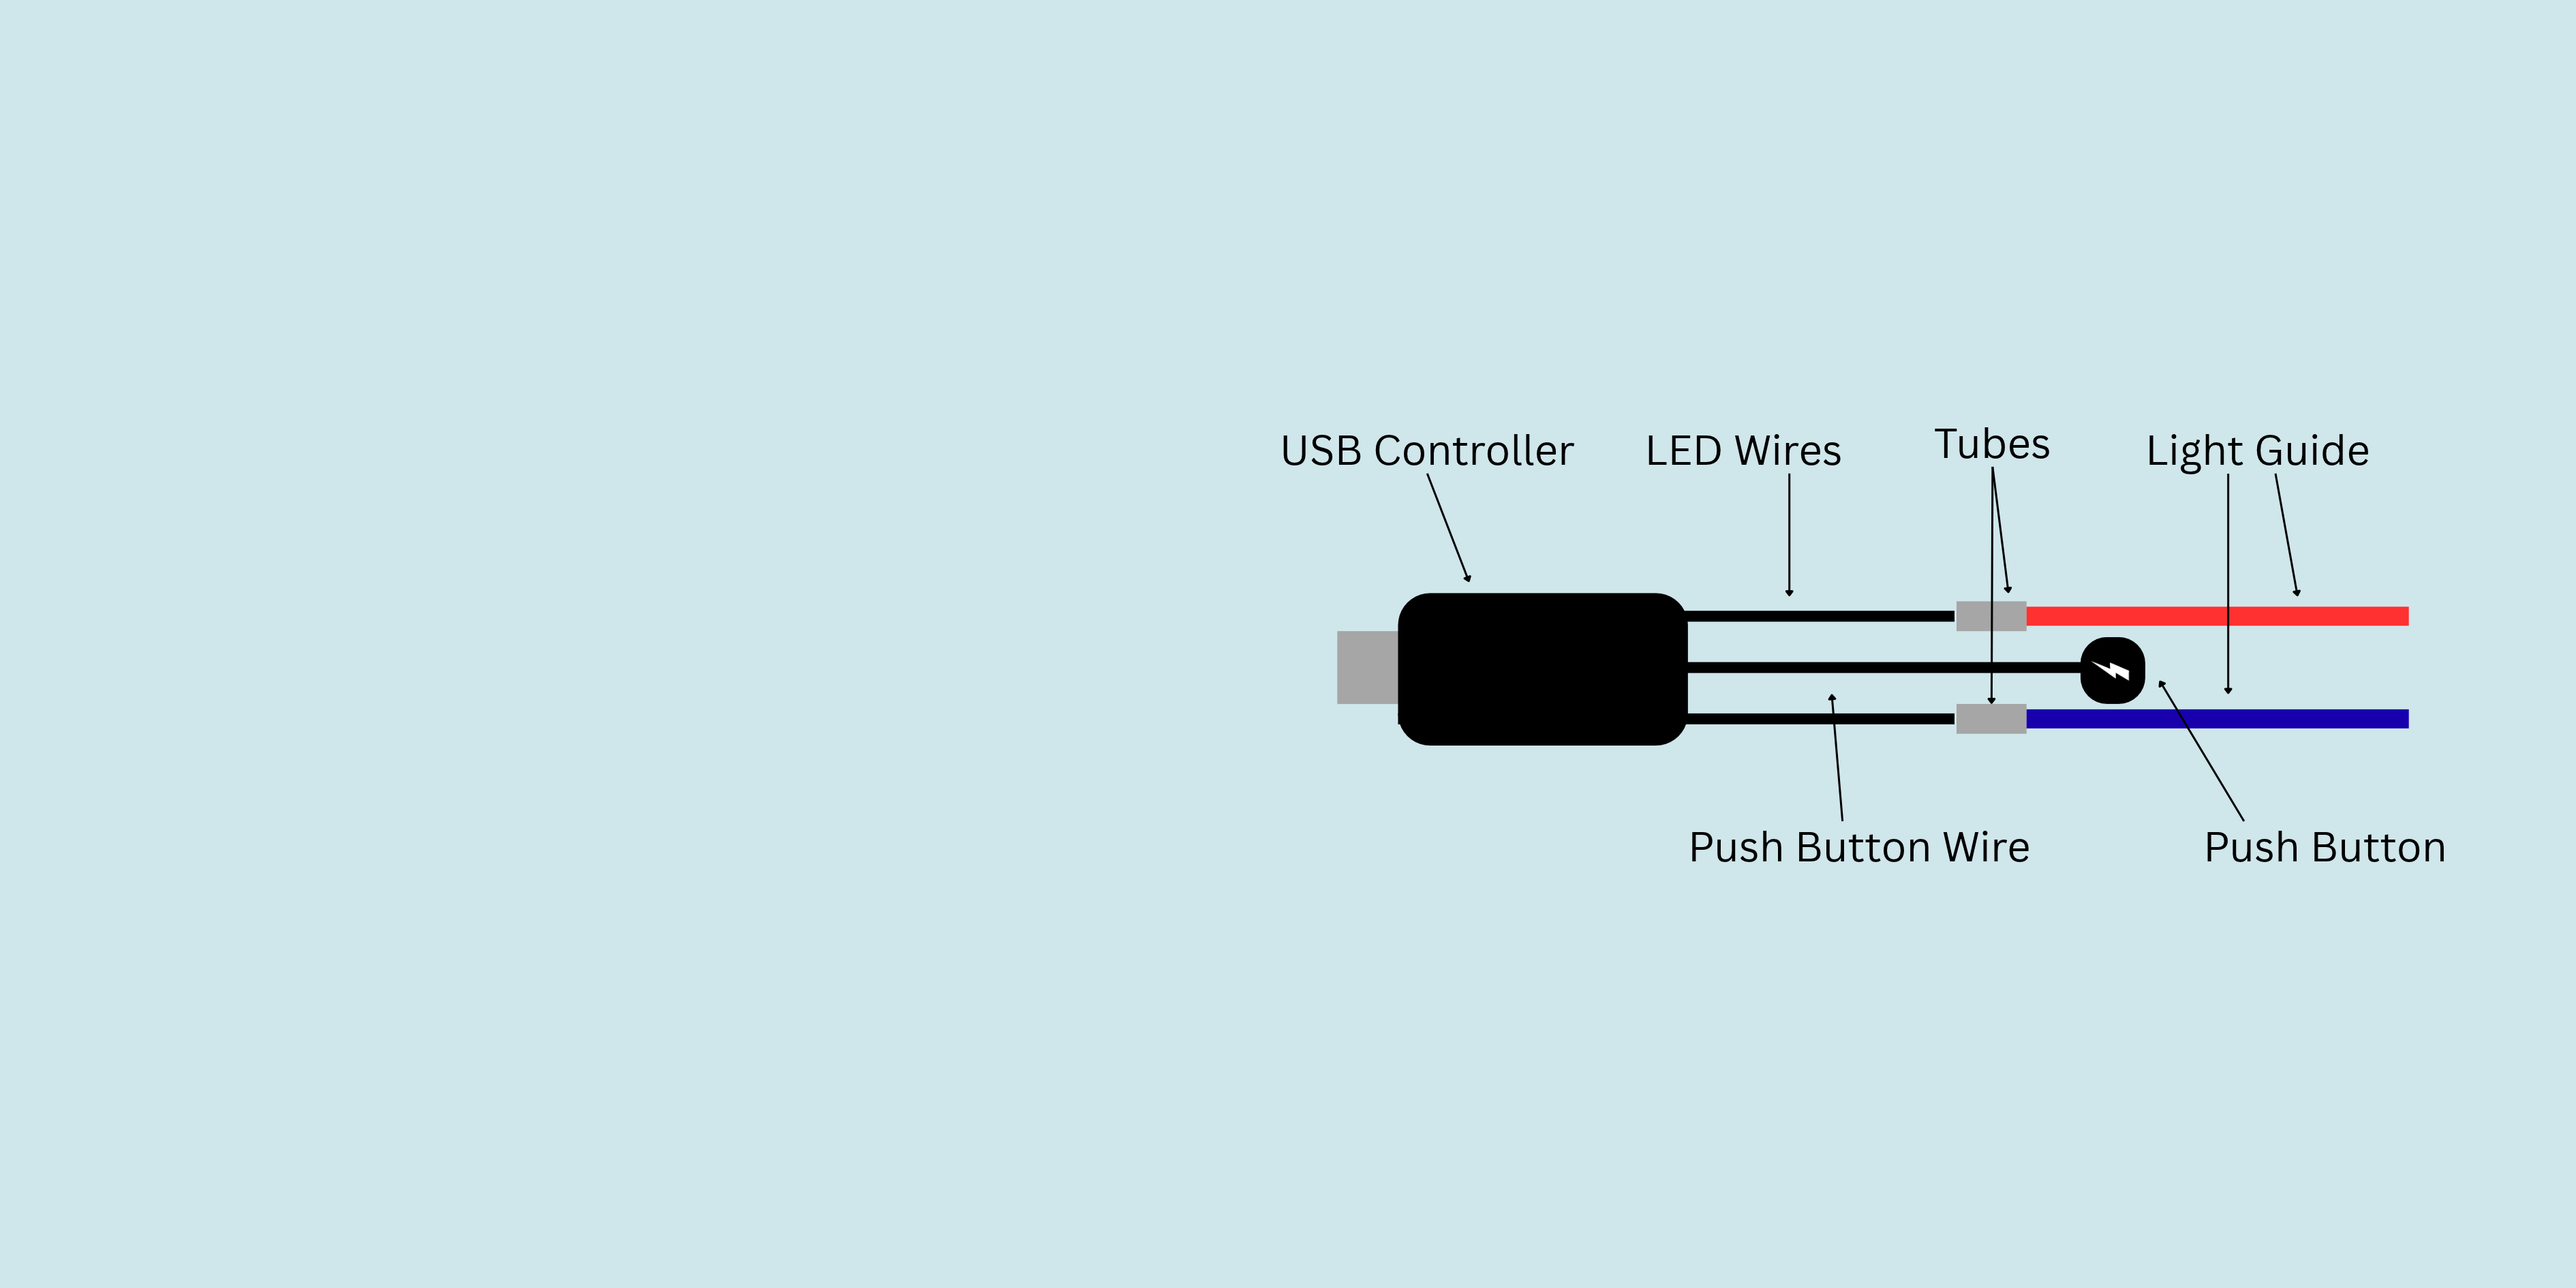
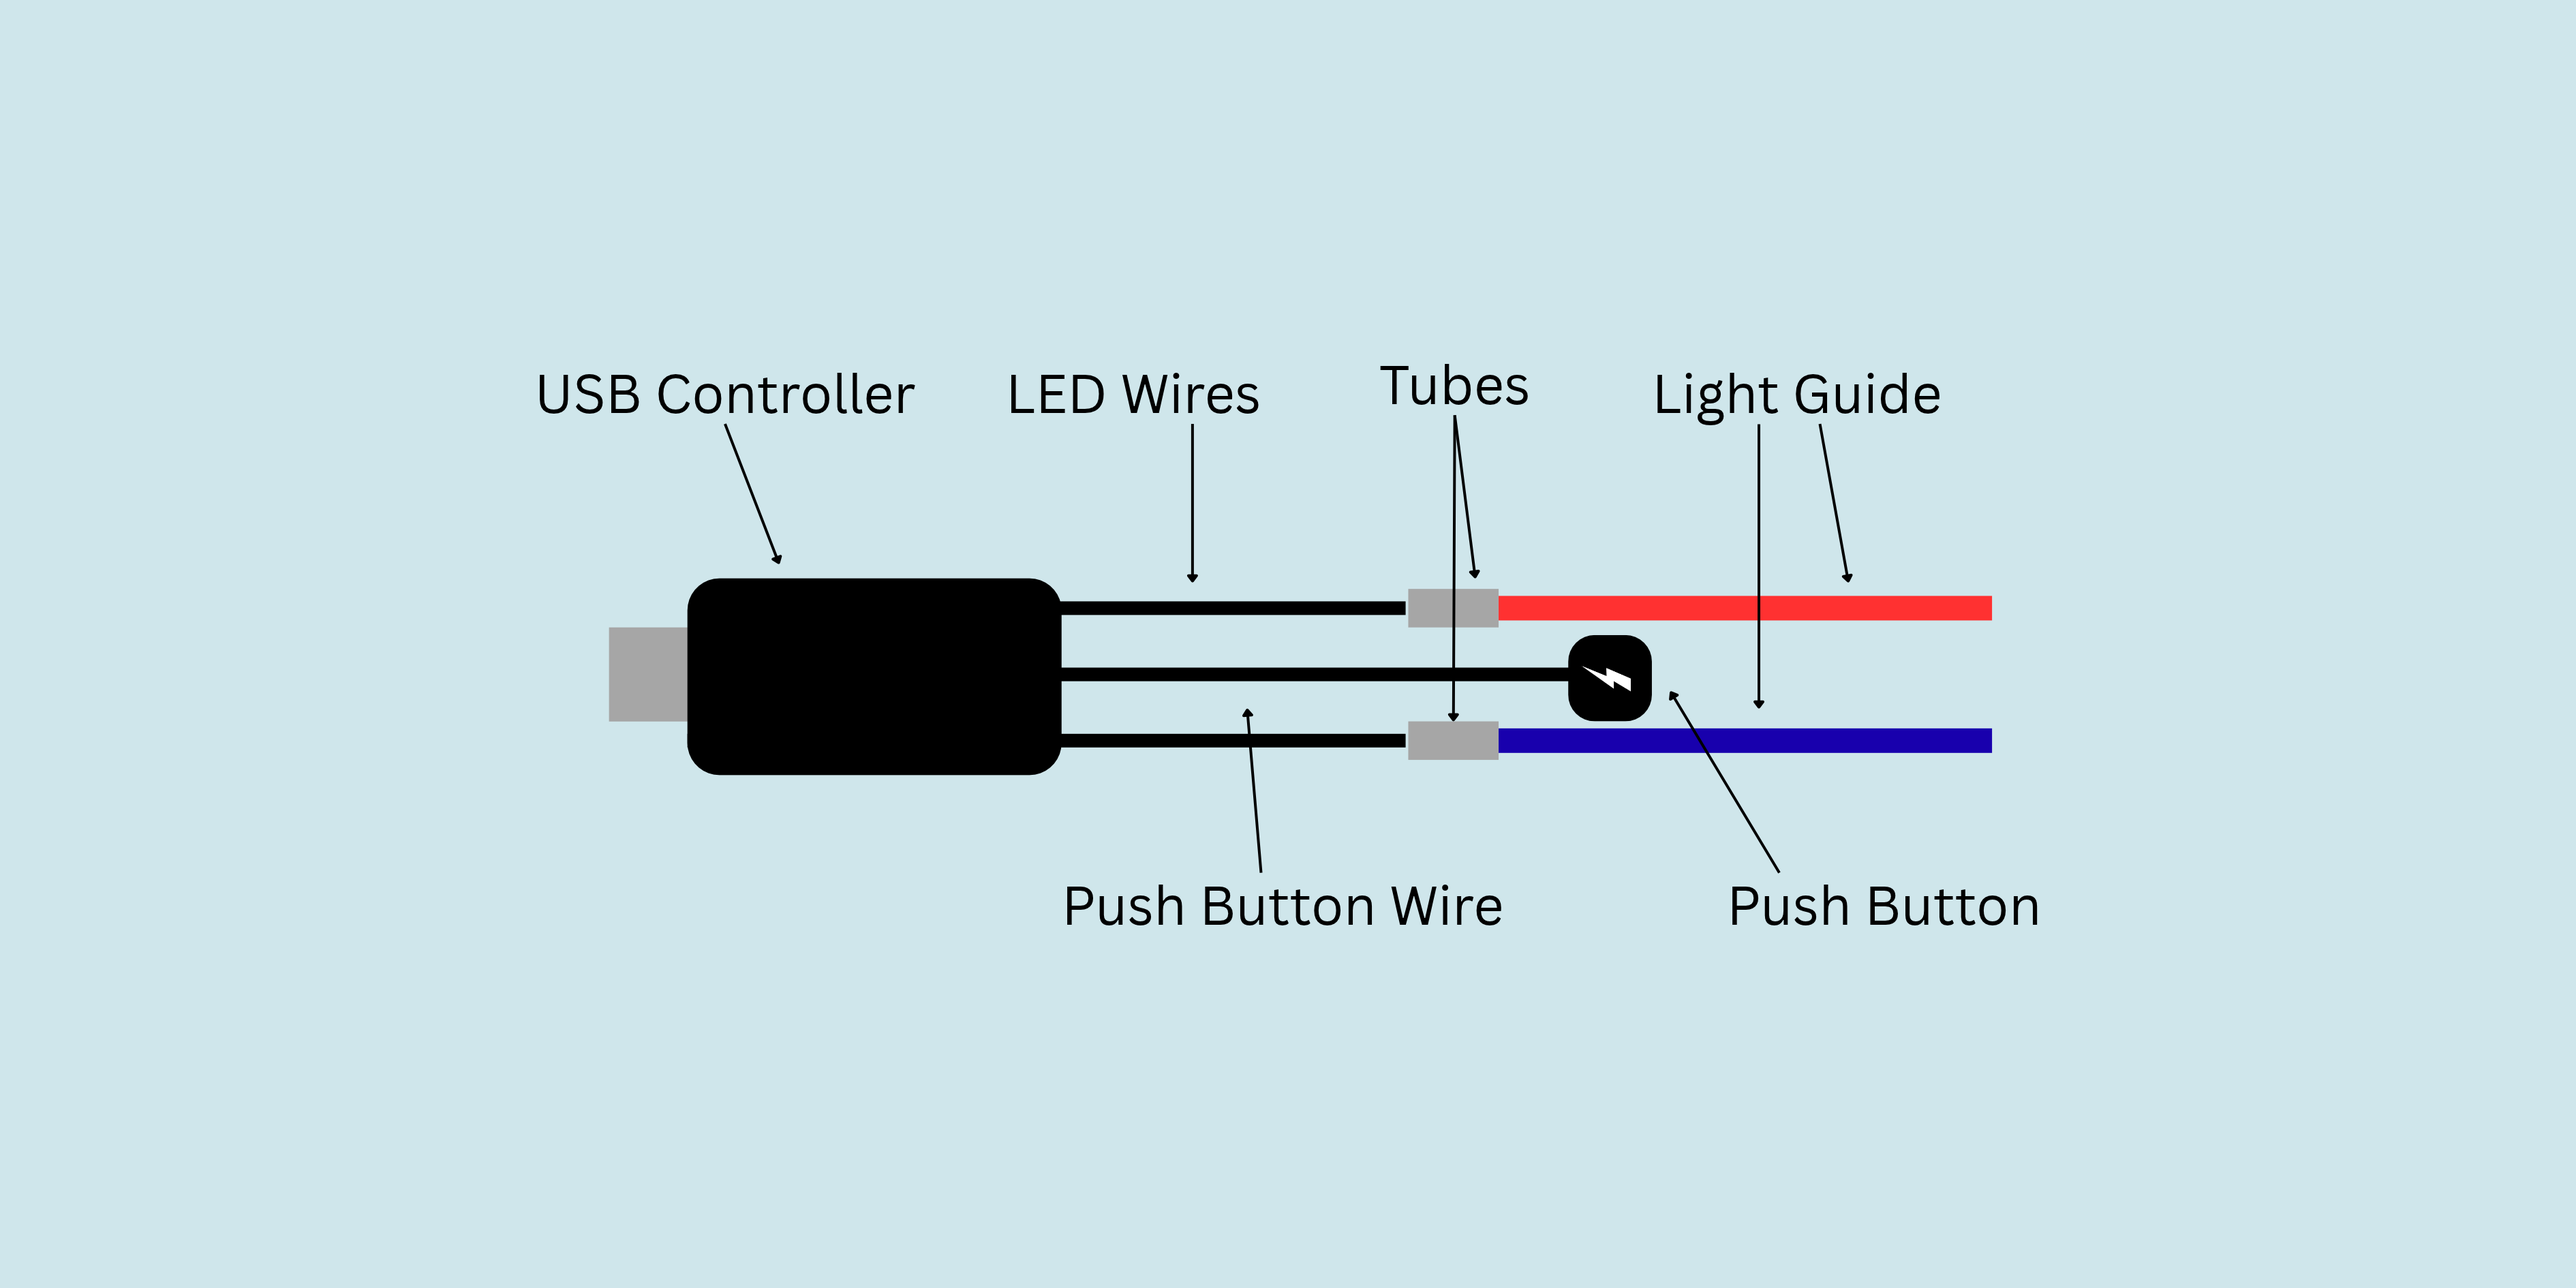
Update

diff --git a/src/App.jsx b/src/App.jsx
@@ -333,36 +333,42 @@ const handleDecode = () => {
       </header>
 
       <main className="mx-auto max-w-7xl px-4 pb-10 sm:px-6 lg:px-8">
-        {/* Hero Section */}
-        <section className="py-6 sm:py-8">
-          <div className="relative min-h-64 overflow-hidden rounded-2xl bg-blue-950 sm:min-h-72">
-            <img
-              src="/led-controller-banner.png"
-              alt="LED controller with illuminated light guide tubes"
-              className="absolute inset-0 h-full w-full object-cover"
-            />
+        
+        
+{/* Responsive Hero Banner */}
+<section className="py-6 sm:py-8">
+  <div className="overflow-hidden rounded-2xl bg-blue-950">
 
-            <div className="absolute inset-0 bg-gradient-to-r from-blue-950/95 via-blue-950/70 to-transparent" />
+    {/* Text section */}
+    <div className="flex flex-col justify-center p-5 sm:p-8 md:p-10">
+      <span className="text-xs font-semibold uppercase tracking-widest text-blue-300">
+        LED Controller
+      </span>
 
-            <div className="relative z-10 flex min-h-64 max-w-2xl flex-col justify-center p-6 sm:min-h-72 sm:p-10">
-              <span className="mb-4 inline-flex w-fit items-center gap-2 rounded-full border border-white/20 bg-white/10 px-3 py-1.5 text-xs font-medium text-blue-100">
-                <Zap size={13} />
-                LED CONTROLLER SYSTEM
-              </span>
+      <h2 className="mt-2 text-2xl font-bold text-white sm:text-3xl md:text-4xl">
+        Configure.
+        <br />
+        Generate. Decode.
+      </h2>
 
-              <h2 className="text-3xl font-extrabold leading-tight tracking-tight text-white sm:text-4xl">
-                Configure.
-                <br />
-                Generate. Decode.
-              </h2>
+      <p className="mt-3 max-w-xl text-sm leading-relaxed text-blue-100 sm:text-base">
+        Configure your LED controller parameters, generate part numbers,
+        and decode existing part numbers easily.
+      </p>
+    </div>
 
-              <p className="mt-4 max-w-lg text-sm leading-6 text-blue-100 sm:text-base">
-                Easily create and understand LED controller part
-                numbers with our smart configuration tool.
-              </p>
-            </div>
-          </div>
-        </section>
+    {/* Image section */}
+    <div className="w-full">
+      <img
+        src="/led-controller-banner.png"
+        alt="LED Controller"
+        className="block h-auto w-full object-cover"
+      />
+    </div>
+
+  </div>
+</section>
+
 
         {/* Page Heading */}
         <section className="pb-6">
